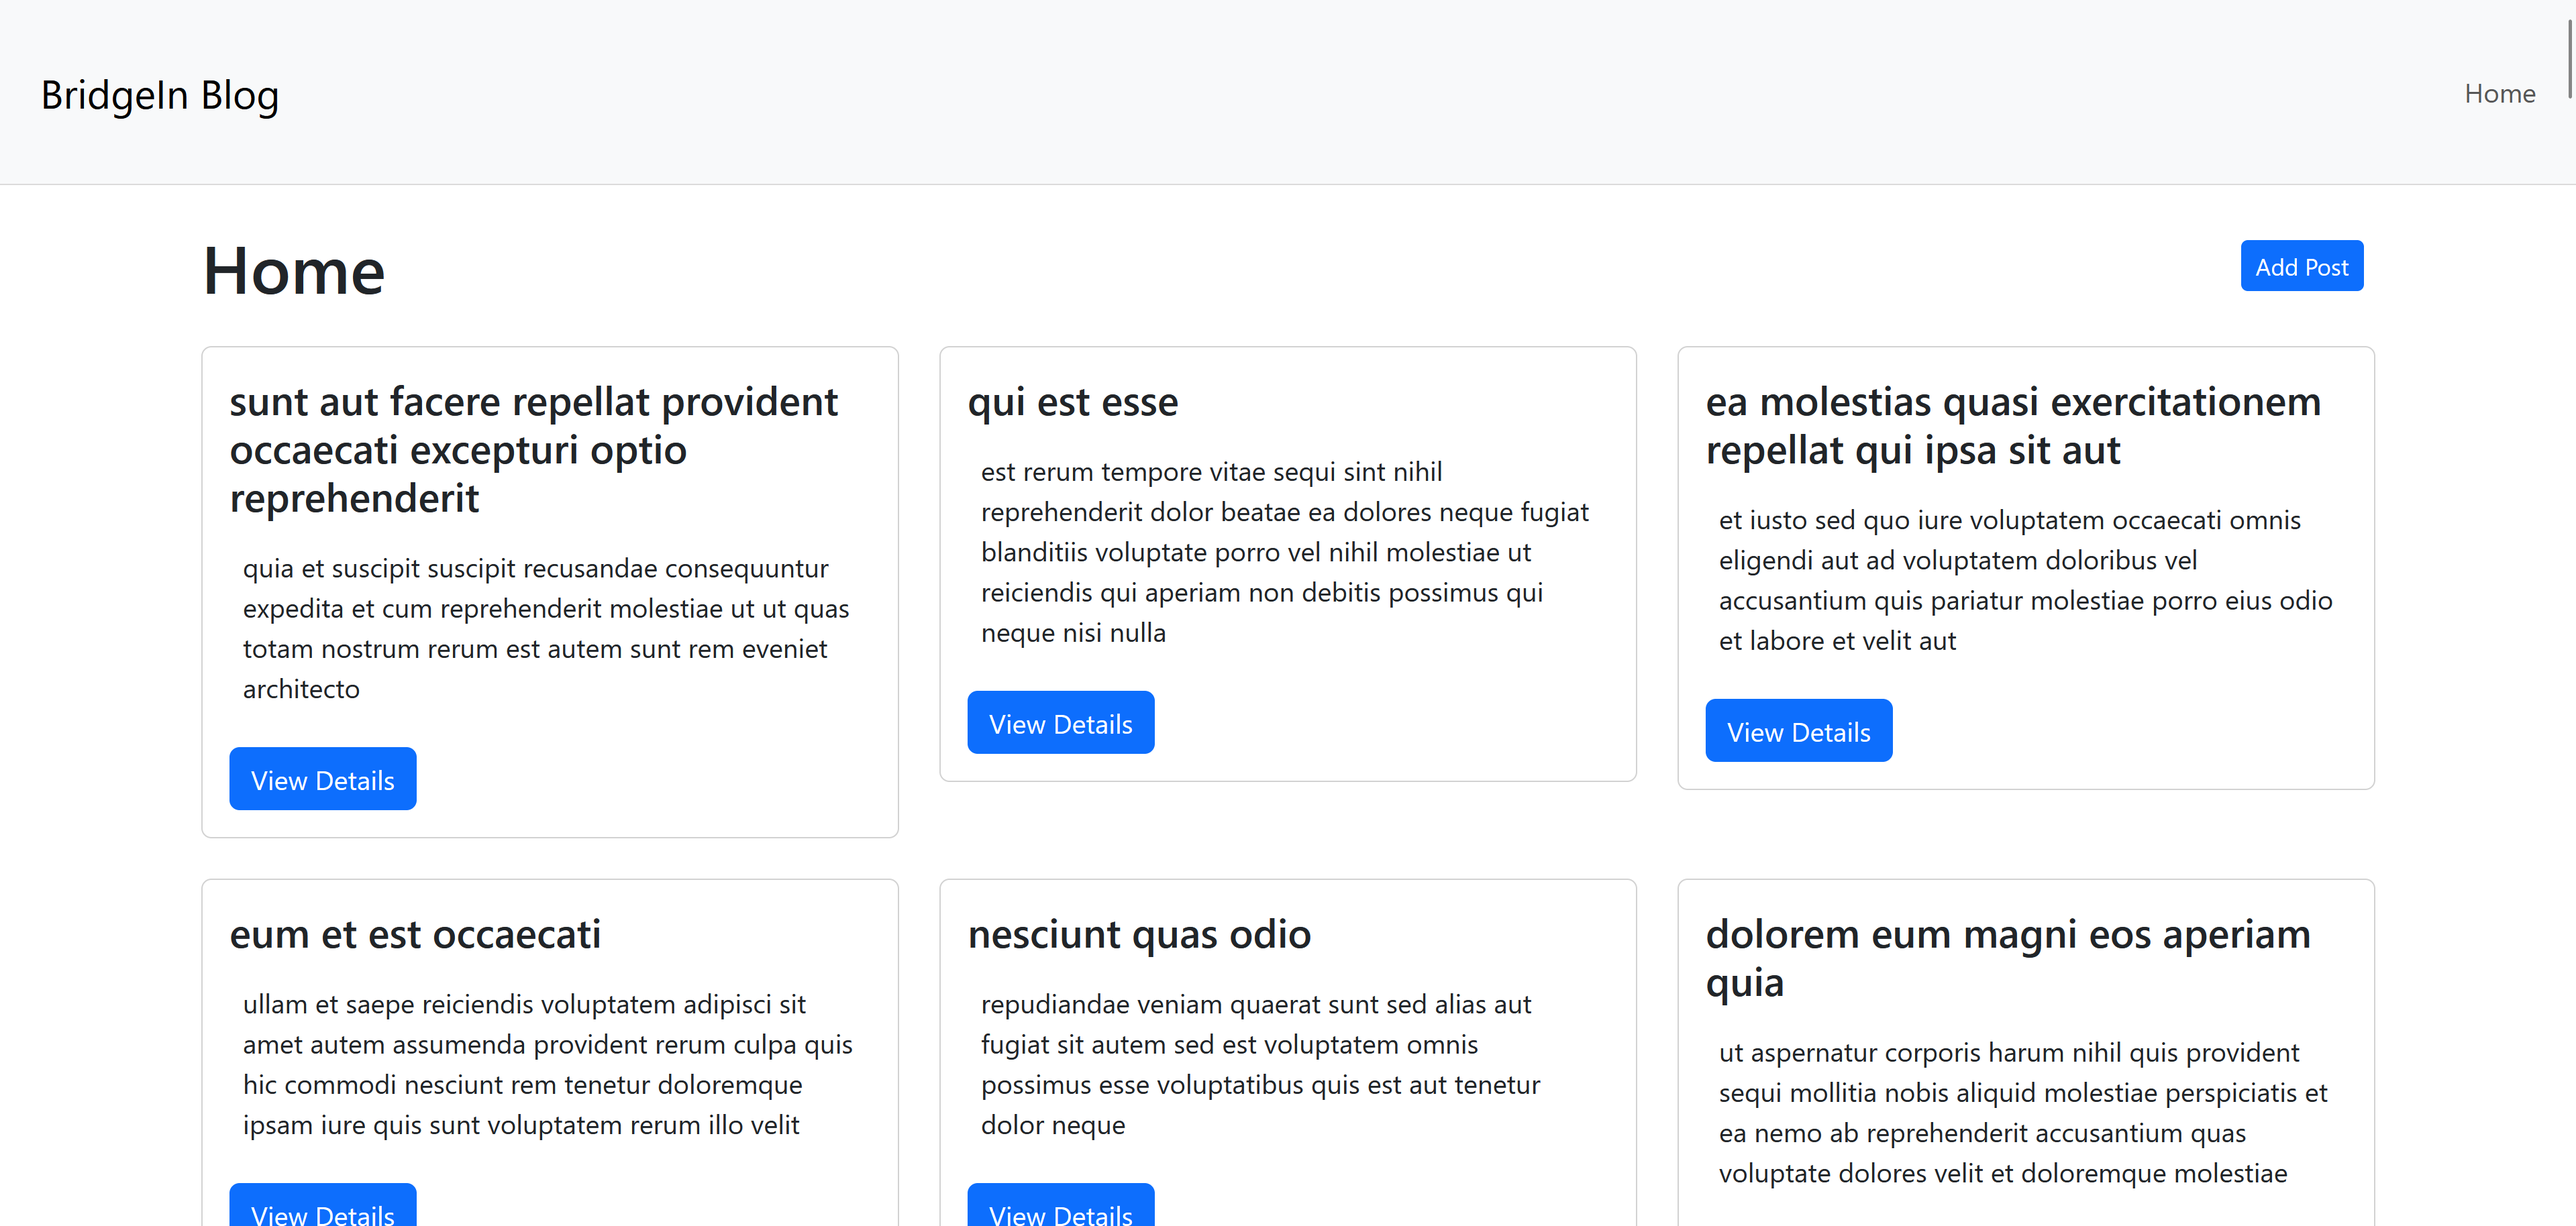
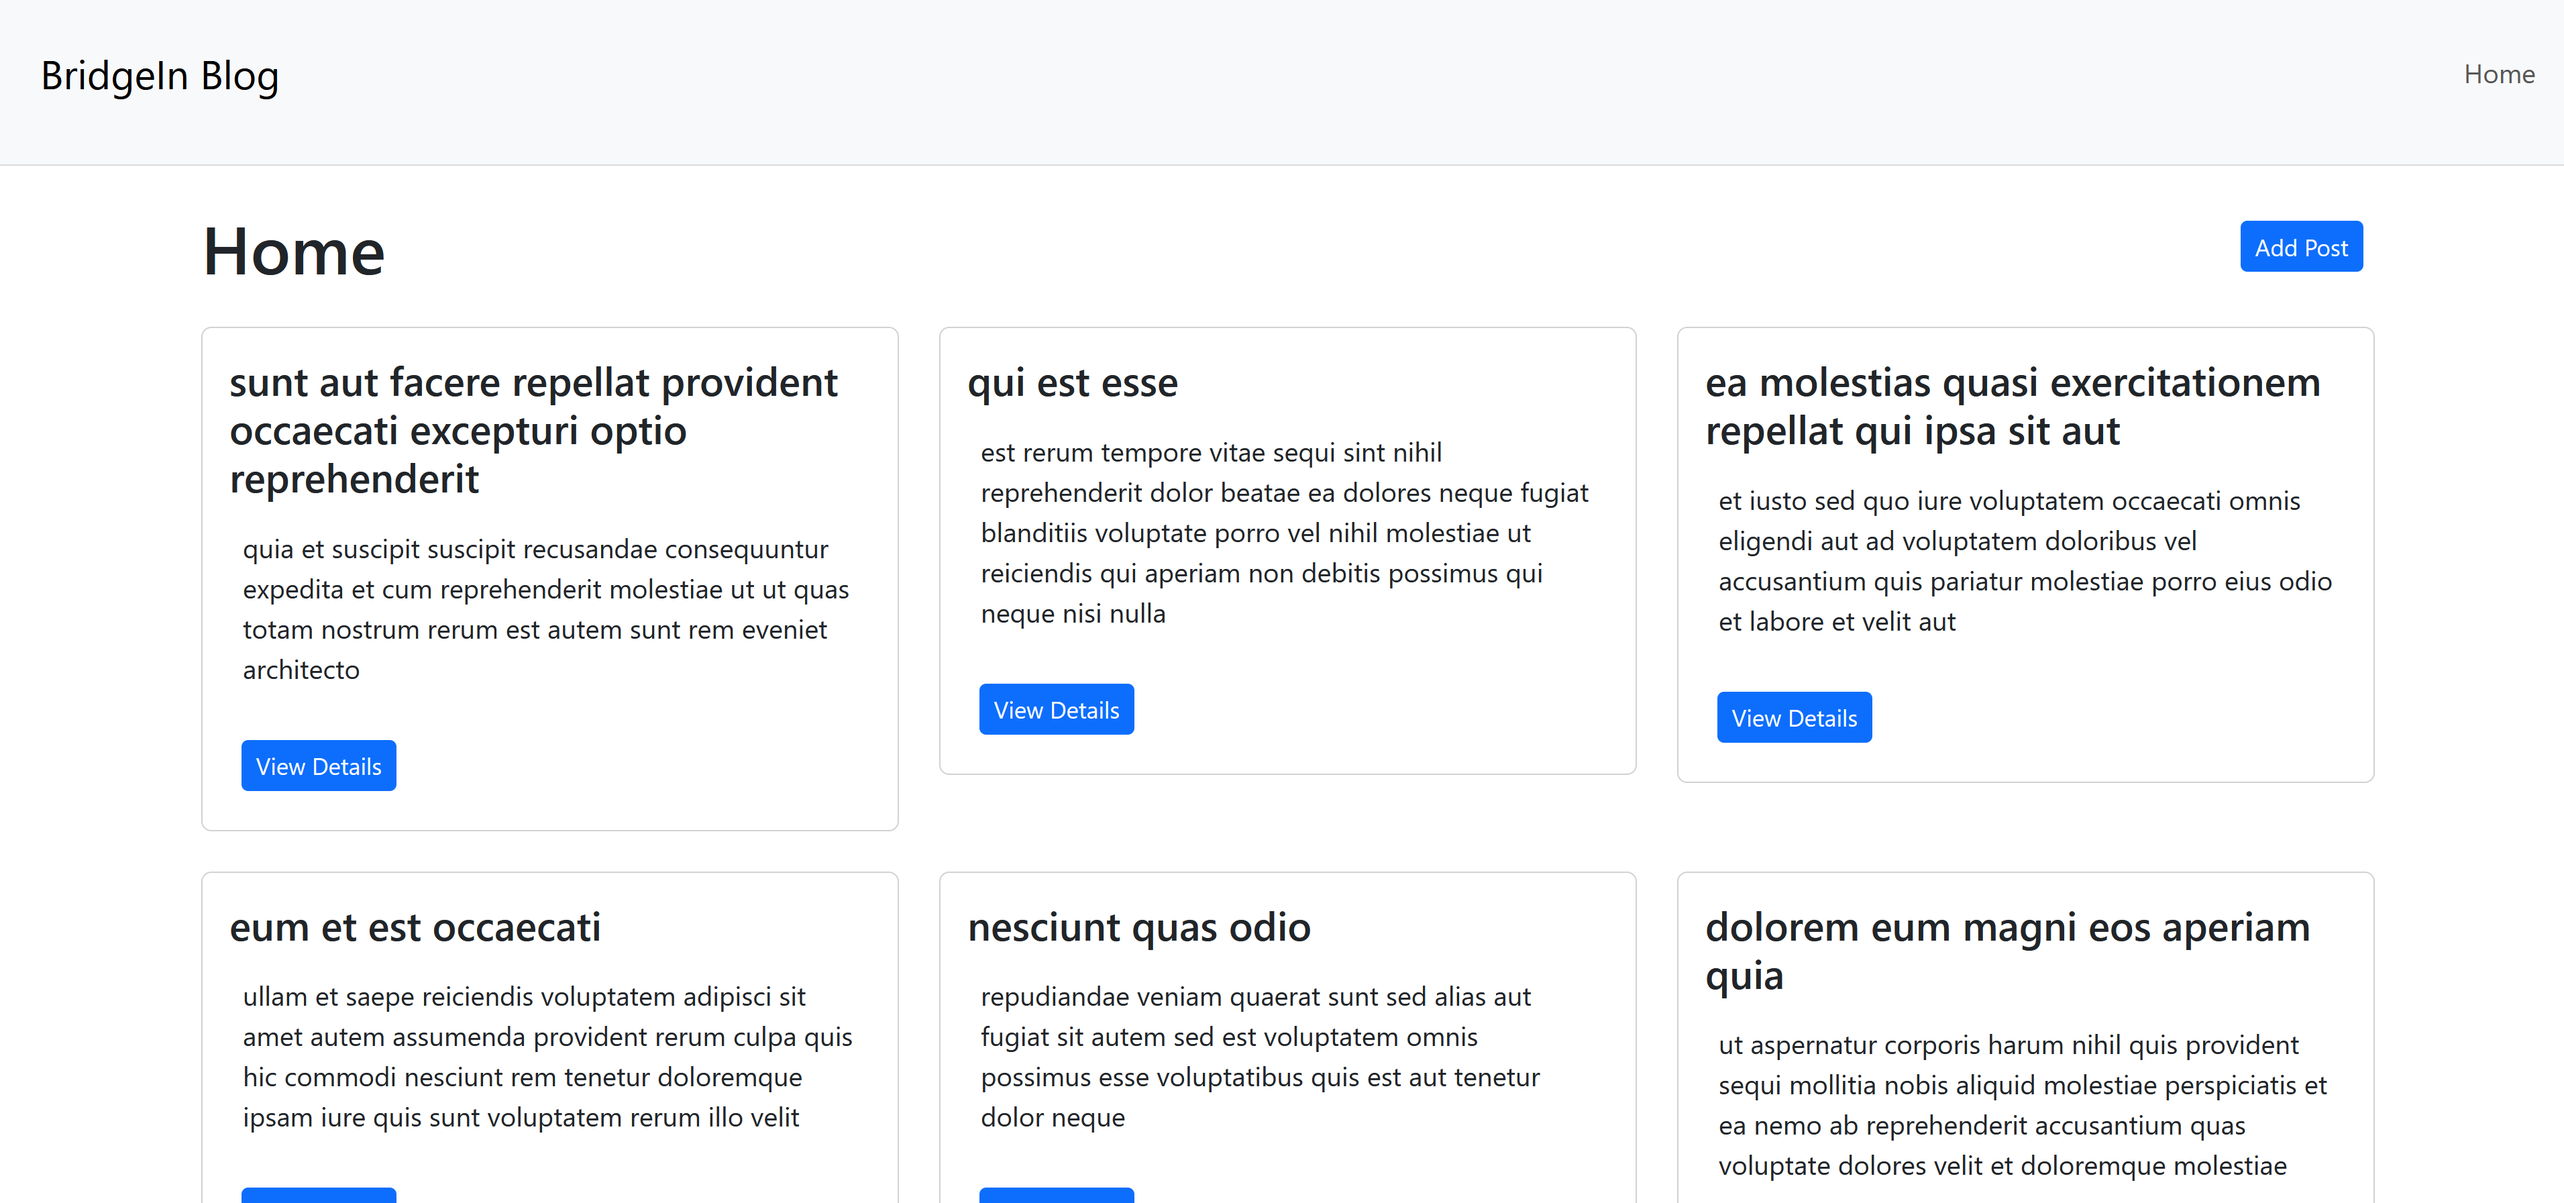
small changes

diff --git a/src/pages/PostPage.tsx b/src/pages/PostPage.tsx
@@ -3,6 +3,8 @@ import { useParams } from 'react-router-dom';
 import { Post, Comment } from '../types';
 import CommentModal from '../components/CommentModal';
 
+//Page for each Post
+
 interface Props {
   posts: Post[];
   comments: Comment[];
@@ -31,7 +33,7 @@ const PostPage: React.FC<Props> = ({ posts, comments, addComment, updateComment,
   };
 
   const handleSaveComment = (comment: Comment) => {
-    if (!postId) return; // Ensure postId is defined
+    if (!postId) return; 
 
     if (commentToEdit) {
       updateComment(comment);
@@ -53,7 +55,7 @@ const PostPage: React.FC<Props> = ({ posts, comments, addComment, updateComment,
       <p>{post?.body}</p>
       <div className="d-flex justify-content-between align-items-center">
         <h4>Comments</h4>
-        <button className="btn btn-primary mb-4 btn-sm" onClick={() => handleShowModal()}>
+        <button className="btn btn-sm btn-primary mb-4" onClick={() => handleShowModal()}>
           Add Comment
         </button>
       </div>
@@ -82,7 +84,7 @@ const PostPage: React.FC<Props> = ({ posts, comments, addComment, updateComment,
         onSave={handleSaveComment}
         commentToEdit={commentToEdit}
         lastPostId={postId}
-        nextCommentId={nextCommentId} // Pass the next comment ID
+        nextCommentId={nextCommentId} 
       />
     </div>
   );

diff --git a/src/pages/Home.tsx b/src/pages/Home.tsx
@@ -3,6 +3,8 @@ import { Link } from 'react-router-dom';
 import { Modal, Button, Form } from 'react-bootstrap';
 import { Post } from '../types';
 
+//Home page
+
 interface Props {
   posts: Post[];
   addPost: (newPost: Post) => void;
@@ -48,7 +50,7 @@ const Home: React.FC<Props> = ({ posts, addPost }) => {
               <div className="card-body">
                 <h5 className="card-title">{post.title}</h5>
                 <p className="card-text">{post.body}</p>
-                <Link to={`/posts/${post.id}`} className="btn btn-primary">
+                <Link to={`/posts/${post.id}`} className="btn btn-sm btn-primary">
                   View Details
                 </Link>
               </div>
@@ -83,10 +85,10 @@ const Home: React.FC<Props> = ({ posts, addPost }) => {
           </Form>
         </Modal.Body>
         <Modal.Footer>
-          <Button variant="secondary" onClick={handleCloseModal}>
+          <Button className='btn btn-sm' variant="secondary" onClick={handleCloseModal}>
             Close
           </Button>
-          <Button className='btn-sm' variant="primary" onClick={handleSavePost}>
+          <Button className='btn btn-sm' variant="primary" onClick={handleSavePost}>
             Save changes
           </Button>
         </Modal.Footer>

diff --git a/src/components/CommentModal.tsx b/src/components/CommentModal.tsx
@@ -2,13 +2,15 @@ import React, { useState, useEffect } from 'react';
 import { Modal, Button, Form } from 'react-bootstrap';
 import { Comment } from '../types';
 
+//Component to manage Comments
+
 interface Props {
   show: boolean;
   onHide: () => void;
   onSave: (comment: Comment) => void;
   commentToEdit?: Comment | null;
   lastPostId: number | undefined;
-  nextCommentId: number; // Add this prop to track the next comment ID
+  nextCommentId: number; 
 }
 
 const CommentModal: React.FC<Props> = ({ show, onHide, onSave, commentToEdit, lastPostId, nextCommentId }) => {

diff --git a/src/components/Comment.tsx b/src/components/Comment.tsx
@@ -1,6 +1,8 @@
 import React from 'react';
 import { Comment } from '../types';
 
+//Comment structure
+
 interface Props {
   comment: Comment;
 }

diff --git a/src/components/Post.tsx b/src/components/Post.tsx
@@ -2,6 +2,8 @@
 import React from 'react';
 import { Post } from '../types';
 
+//Post structure
+
 interface Props {
   post: Post;
 }

diff --git a/src/index.css b/src/index.css
@@ -25,8 +25,8 @@ body {
   align-items: center;
 }
 
-button{
-  margin: 0.5em ;
+.btn{
+  margin: 0.5em;
 }
 
 h5 {

diff --git a/README.md b/README.md
@@ -7,8 +7,12 @@ This project came up as a challenge to quickly develop an platform to create pos
 - Explore existing Posts
 ![homeScreen](images/homeScreen.png)
 - Add new posts
+![addNewPost](images/newPost.png)
 - Check out the posts for comments
+![addNewPost](images/postPage.png)
 - Add, delete and edit the comments
+![addNewPost](images/newComment.png)
+![EditPost](images/editComment.png)
 
 ## Available Scripts
 
